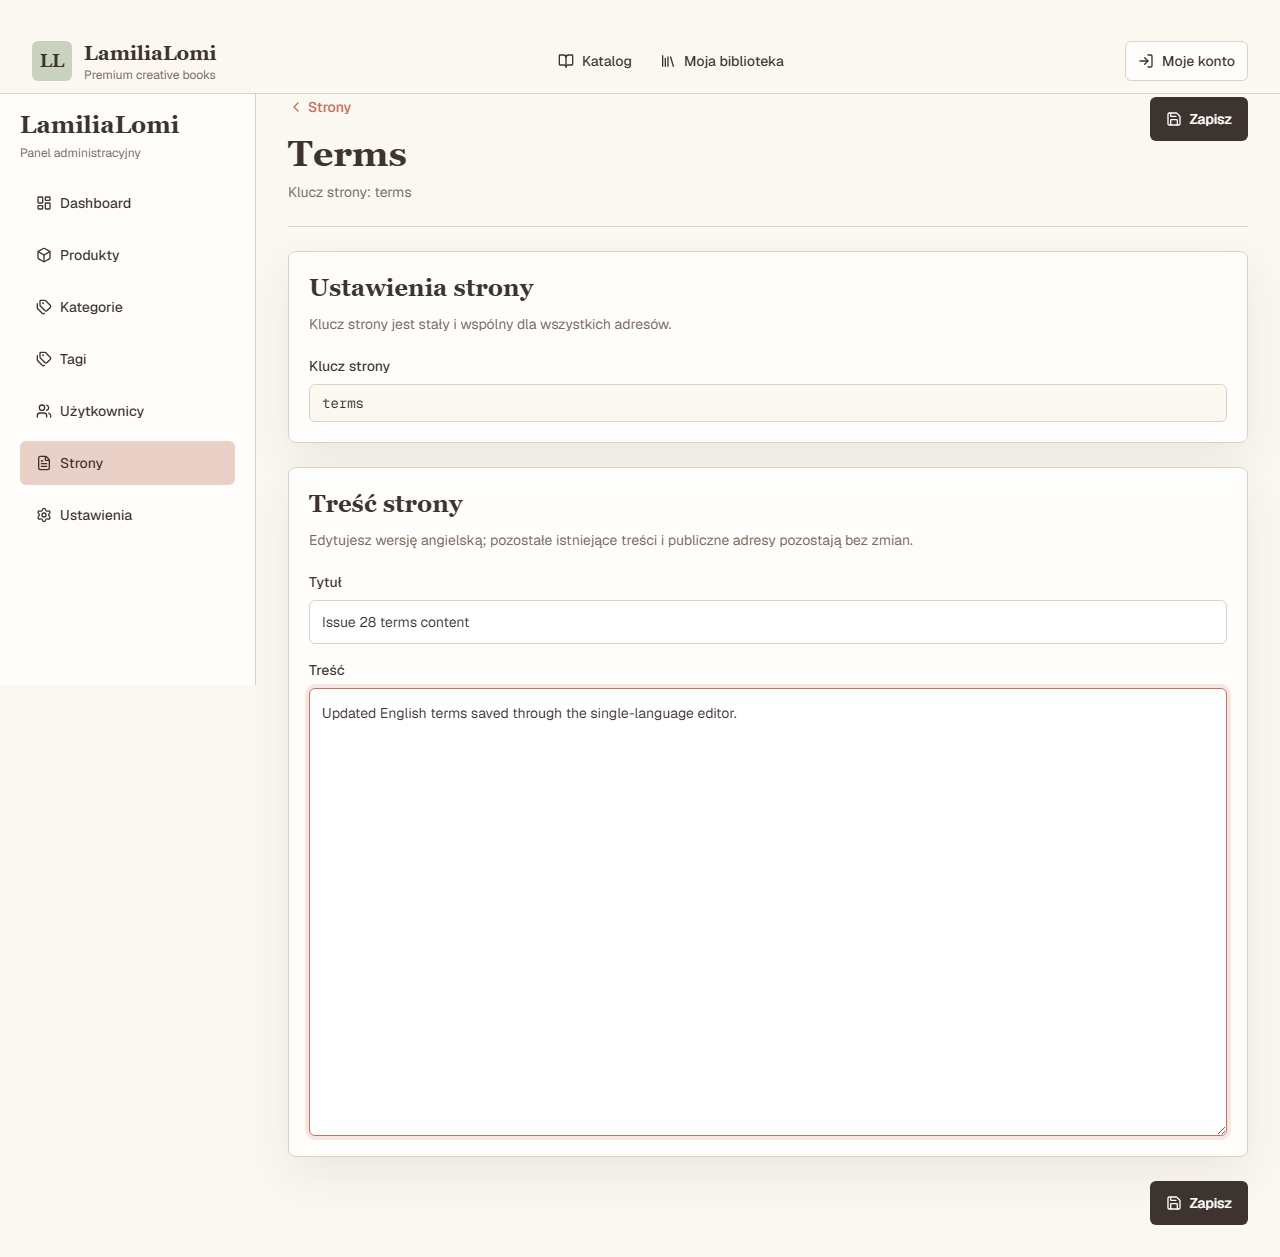
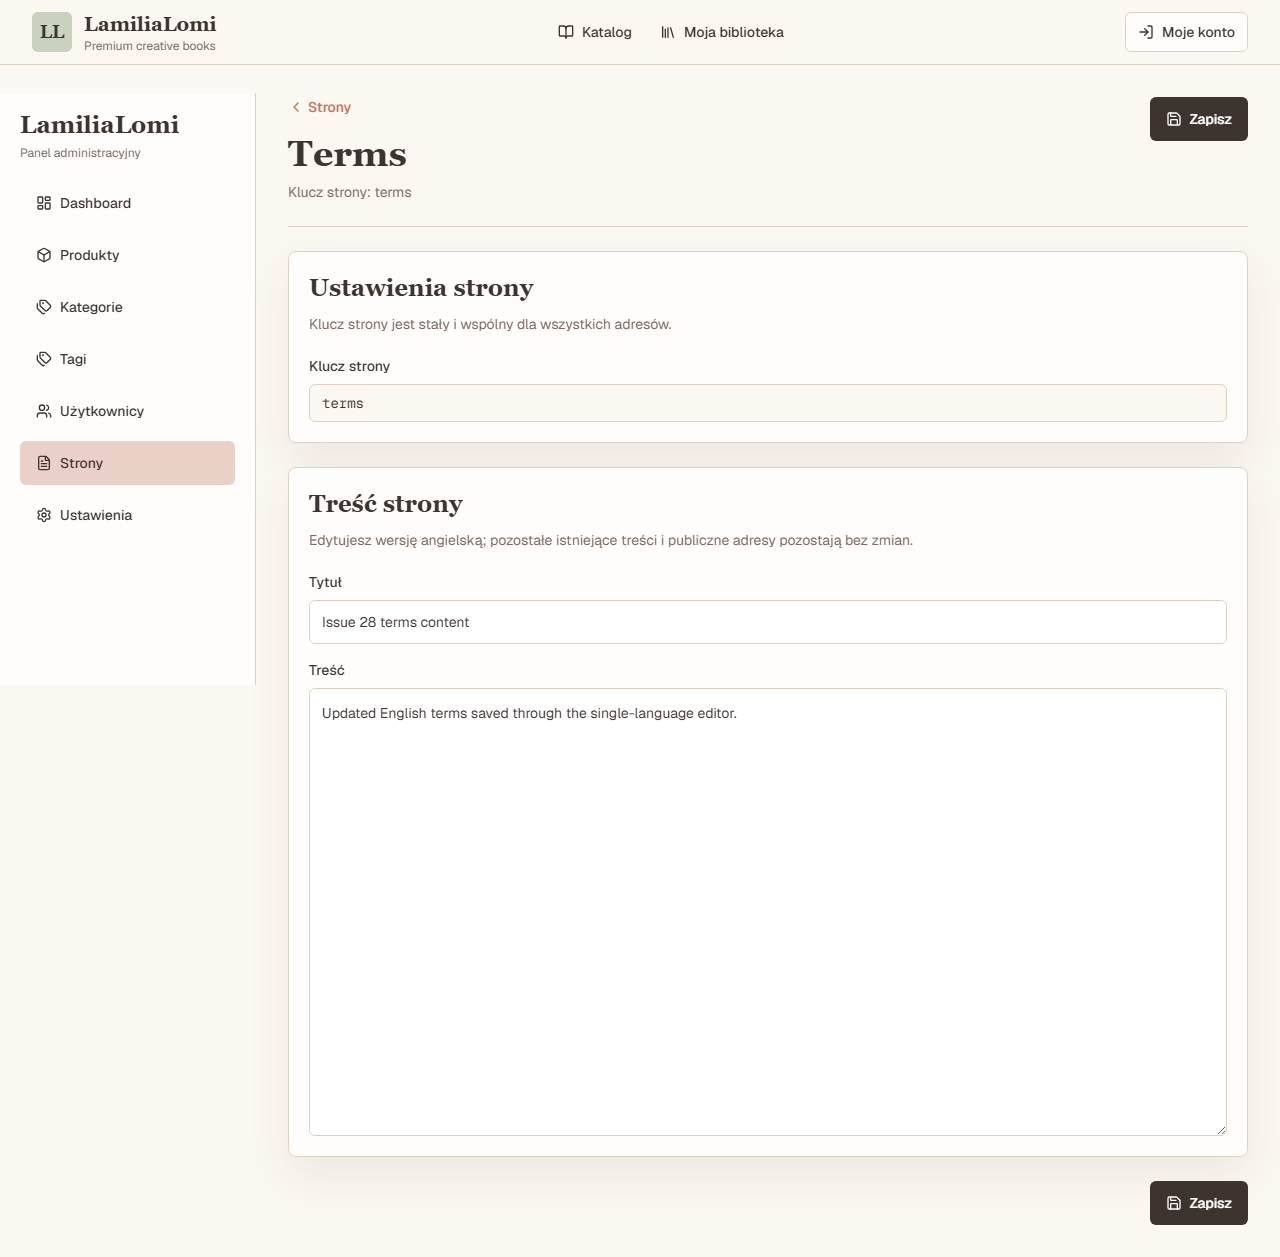
test(e2e): serialize local content store flows

diff --git a/tests/e2e/local-content-store-lock.ts b/tests/e2e/local-content-store-lock.ts
@@ -1,0 +1,101 @@
+import { createHash, randomUUID } from "node:crypto";
+import fs from "node:fs";
+import os from "node:os";
+import path from "node:path";
+
+const lockPath = path.join(
+  os.tmpdir(),
+  `lamilialomi-content-store-${createHash("sha256").update(path.resolve(process.cwd())).digest("hex")}.lock`,
+);
+const ownerPath = path.join(lockPath, "owner.json");
+const lockWaitMs = 9 * 60_000;
+
+type LockOwner = { pid: number; token: string };
+
+export async function acquireLocalContentStoreLock(): Promise<() => void> {
+  const token = randomUUID();
+  const deadline = Date.now() + lockWaitMs;
+
+  while (true) {
+    try {
+      fs.mkdirSync(lockPath);
+      try {
+        fs.writeFileSync(ownerPath, JSON.stringify({ pid: process.pid, token } satisfies LockOwner), "utf8");
+      } catch (error) {
+        fs.rmdirSync(lockPath);
+        throw error;
+      }
+
+      let released = false;
+      return () => {
+        if (released) return;
+        const owner = readOwner();
+        if (owner?.token === token) {
+          fs.unlinkSync(ownerPath);
+          fs.rmdirSync(lockPath);
+        }
+        released = true;
+      };
+    } catch (error) {
+      if (codeOf(error) !== "EEXIST") throw error;
+      removeStaleLock();
+      if (Date.now() >= deadline) {
+        throw new Error("Timed out waiting for another local content-store E2E flow to finish.");
+      }
+      await new Promise((resolve) => setTimeout(resolve, 100));
+    }
+  }
+}
+
+function readOwner(): LockOwner | null {
+  try {
+    const value = JSON.parse(fs.readFileSync(ownerPath, "utf8")) as Partial<LockOwner>;
+    return Number.isSafeInteger(value.pid) && typeof value.token === "string"
+      ? { pid: value.pid!, token: value.token }
+      : null;
+  } catch {
+    return null;
+  }
+}
+
+function removeStaleLock() {
+  let owner: LockOwner | null = null;
+  let modifiedAt = 0;
+  try {
+    owner = readOwner();
+    modifiedAt = fs.statSync(lockPath).mtimeMs;
+  } catch {
+    return;
+  }
+
+  if (owner && isProcessAlive(owner.pid)) return;
+  if (!owner && Date.now() - modifiedAt < 5_000) return;
+
+  const stalePath = `${lockPath}.stale-${randomUUID()}`;
+  try {
+    fs.renameSync(lockPath, stalePath);
+    try {
+      fs.unlinkSync(path.join(stalePath, "owner.json"));
+    } catch (error) {
+      if (codeOf(error) !== "ENOENT") throw error;
+    }
+    fs.rmdirSync(stalePath);
+  } catch (error) {
+    if (codeOf(error) !== "ENOENT" && codeOf(error) !== "EEXIST") throw error;
+  }
+}
+
+function isProcessAlive(pid: number) {
+  try {
+    process.kill(pid, 0);
+    return true;
+  } catch (error) {
+    return codeOf(error) === "EPERM";
+  }
+}
+
+function codeOf(error: unknown) {
+  return error && typeof error === "object" && "code" in error
+    ? String((error as NodeJS.ErrnoException).code)
+    : "";
+}

diff --git a/tests/e2e/issue-28-remove-translations.spec.ts b/tests/e2e/issue-28-remove-translations.spec.ts
@@ -2,9 +2,10 @@ import { expect, test } from "@playwright/test";
 import fs from "node:fs";
 import path from "node:path";
 
+import { acquireLocalContentStoreLock } from "./local-content-store-lock";
 import { isLocalDemoAppTarget } from "./local-target";
 
-test.setTimeout(120_000);
+test.setTimeout(600_000);
 
 test("single-language admin content saves and reloads without changing public URLs", async ({ page }, testInfo) => {
   test.skip(
@@ -12,6 +13,7 @@ test("single-language admin content saves and reloads without changing public UR
     "Uses the local demo admin session and restores its disposable content store after verification.",
   );
 
+  const releaseContentStoreLock = await acquireLocalContentStoreLock();
   const contentStorePath = path.resolve(process.cwd(), "data", "lamilialomi-content.local.json");
   const hadContentStore = fs.existsSync(contentStorePath);
   const originalContentStore = hadContentStore ? fs.readFileSync(contentStorePath) : undefined;
@@ -129,20 +131,33 @@ test("single-language admin content saves and reloads without changing public UR
     expect(browserDiagnostics.failedRequests.filter((request) => request.disposition === "unresolved")).toEqual([]);
     expect(browserDiagnostics.failedResponses).toEqual([]);
   } finally {
-    if (originalContentStore) {
-      fs.writeFileSync(contentStorePath, originalContentStore);
-    } else if (fs.existsSync(contentStorePath)) {
-      fs.rmSync(contentStorePath);
+    try {
+      if (originalContentStore) {
+        fs.writeFileSync(contentStorePath, originalContentStore);
+      } else if (fs.existsSync(contentStorePath)) {
+        fs.rmSync(contentStorePath);
+      }
+    } finally {
+      releaseContentStoreLock();
     }
   }
 });
 
 async function saveScreenshot(page: import("@playwright/test").Page, directory: string, name: string, projectName: string) {
   await page.evaluate(() => document.fonts.ready.then(() => undefined));
-  await page.addStyleTag({ content: "nextjs-portal { display: none !important; }" });
-  await page.screenshot({
-    path: path.join(directory, `${name}-${projectName}.png`),
-    fullPage: true,
-    animations: "disabled",
+  await page.evaluate(() => {
+    if (document.activeElement instanceof HTMLElement) document.activeElement.blur();
   });
+  const screenshotStyles = await page.addStyleTag({
+    content: "nextjs-portal, [data-testid='product-save-bar'] { display: none !important; } [class~='sticky'] { position: static !important; top: auto !important; bottom: auto !important; }",
+  });
+  try {
+    await page.screenshot({
+      path: path.join(directory, `${name}-${projectName}.png`),
+      fullPage: true,
+      animations: "disabled",
+    });
+  } finally {
+    await screenshotStyles.evaluate((element) => element.parentNode?.removeChild(element));
+  }
 }

diff --git a/tests/e2e/product-image-order.spec.ts b/tests/e2e/product-image-order.spec.ts
@@ -2,9 +2,10 @@ import { expect, test, type Page, type TestInfo } from "@playwright/test";
 import fs from "node:fs";
 import path from "node:path";
 import { deflateSync } from "node:zlib";
+import { acquireLocalContentStoreLock } from "./local-content-store-lock";
 import { isLocalDemoAppTarget } from "./local-target";
 
-test.setTimeout(300_000);
+test.setTimeout(600_000);
 
 const imageFixtures = [
   { name: "01-red.png", rgb: [230, 42, 52] },
@@ -19,12 +20,20 @@ test.beforeEach(async ({ page }, testInfo) => {
     !(await isLocalDemoAppTarget(page, testInfo.project.use.baseURL)),
     "Gallery ordering E2E uses fixed demo admin credentials and requires a loopback app running the local demo backend.",
   );
+  releaseContentStoreLock = await acquireLocalContentStoreLock();
   await page.addInitScript(() => {
     window.localStorage.setItem(
       "ll_cookie_consent",
       JSON.stringify({ essential: true, analytics: false }),
     );
   });
+});
+
+let releaseContentStoreLock: (() => void) | undefined;
+
+test.afterEach(() => {
+  releaseContentStoreLock?.();
+  releaseContentStoreLock = undefined;
 });
 
 test("admin reorders gallery previews through upload, save, reload, and edit", async ({ page }, testInfo) => {

diff --git a/tests/e2e/product-editor-ux.spec.ts b/tests/e2e/product-editor-ux.spec.ts
@@ -2,21 +2,30 @@ import { expect, test, type Page } from "@playwright/test";
 import fs from "node:fs";
 import path from "node:path";
 import { deflateSync } from "node:zlib";
+import { acquireLocalContentStoreLock } from "./local-content-store-lock";
 import { isLocalDemoAppTarget } from "./local-target";
 
-test.setTimeout(240_000);
+test.setTimeout(600_000);
+
+let releaseContentStoreLock: (() => void) | undefined;
 
 test.beforeEach(async ({ page }, testInfo) => {
   test.skip(
     !(await isLocalDemoAppTarget(page, testInfo.project.use.baseURL)),
     "Product editor E2E uses fixed demo admin credentials and disposable records; it requires a loopback app running the local demo backend.",
   );
+  releaseContentStoreLock = await acquireLocalContentStoreLock();
   await page.addInitScript(() => {
     window.localStorage.setItem(
       "ll_cookie_consent",
       JSON.stringify({ essential: true, analytics: false }),
     );
   });
+});
+
+test.afterEach(() => {
+  releaseContentStoreLock?.();
+  releaseContentStoreLock = undefined;
 });
 
 test("product editor preserves work, saves all statuses, and keeps Save reachable", async ({ page, browser }, testInfo) => {
